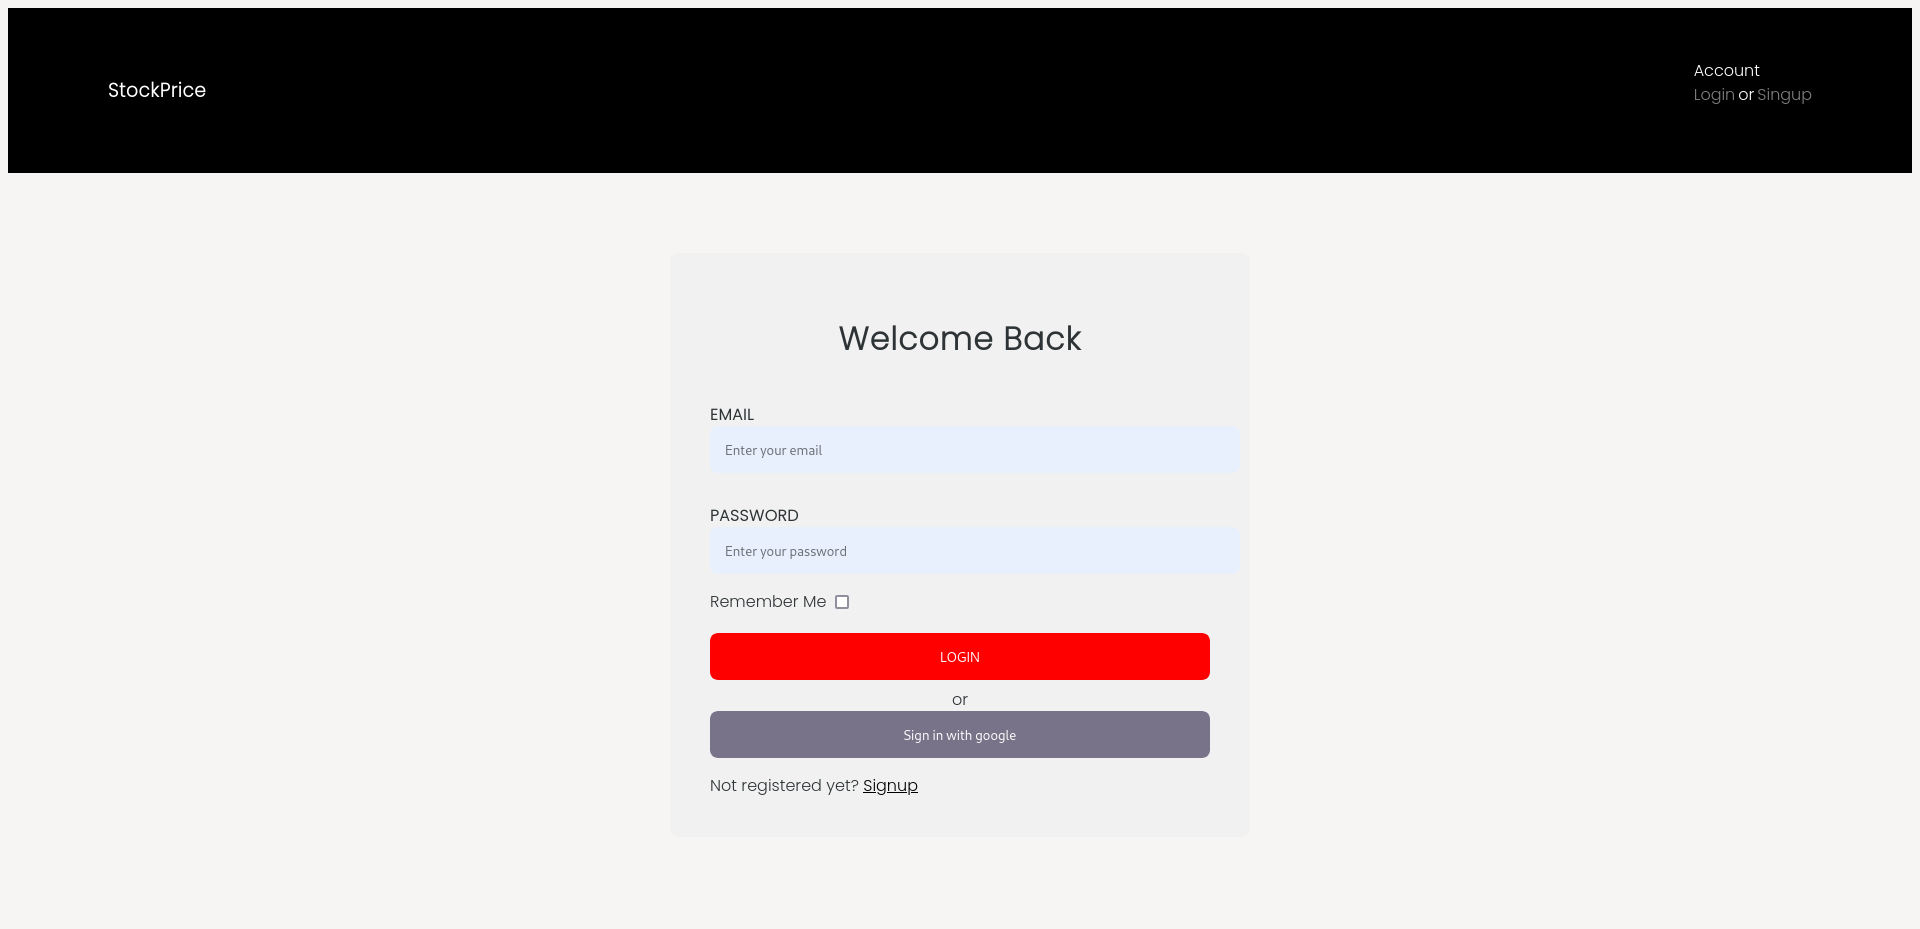
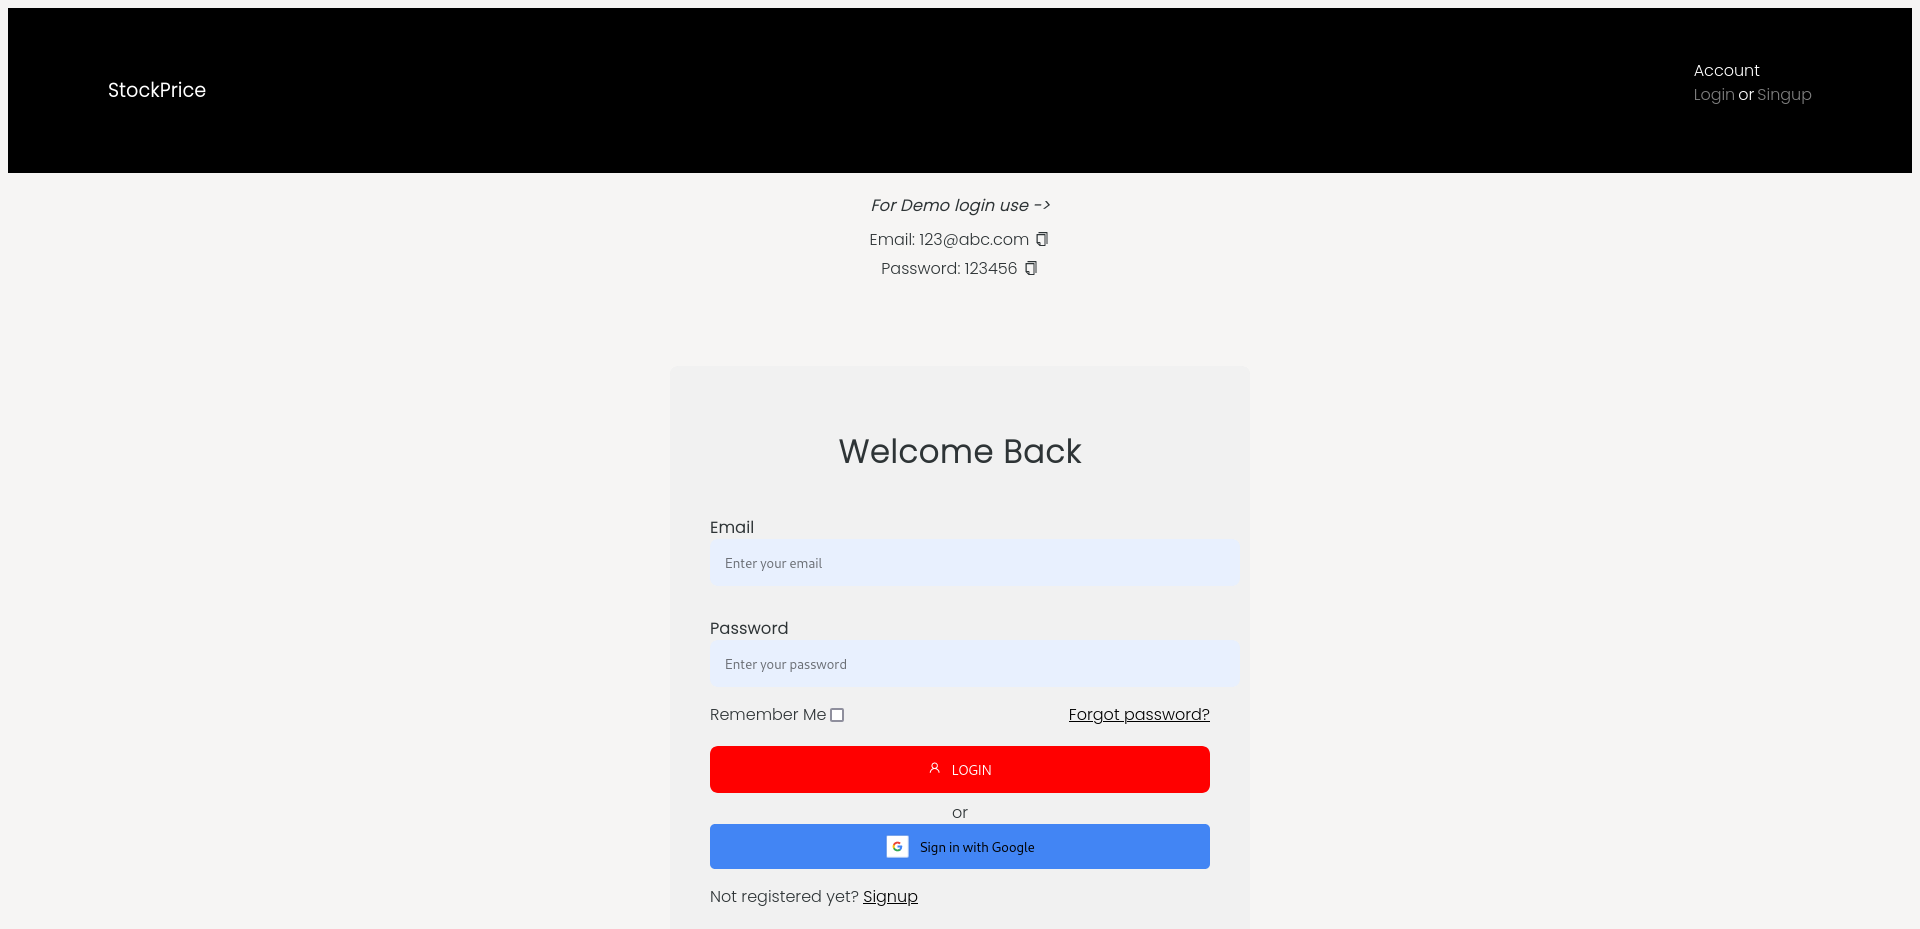
fixed some bugs

diff --git a/client/src/componets/login/index.jsx b/client/src/componets/login/index.jsx
@@ -4,6 +4,7 @@ import { useGoogleLogin } from '@react-oauth/google';
 import * as api from '../../api/index.js';
 import { useState } from 'react';
 import googleBtn from '../../assests/google_signin_buttons/web/vector/btn_google_light_normal_ios.svg';
+import { AiOutlineUser, AiOutlineCopy } from 'react-icons/ai';
 
 const Login = ({ setUser }) => {
 	const [email, setEmail] = useState('');
@@ -47,71 +48,100 @@ const Login = ({ setUser }) => {
 	}
 	const login = useGoogleLogin({ onSuccess: handleGoogleLoginSuccess });
 
+	function copyToClipboard(text) {
+		if (window.navigator && window.navigator.clipboard) {
+			window.navigator.clipboard
+				.writeText(text)
+				.then(() => {
+					console.log('Text copied to clipboard');
+				})
+				.catch((error) => {
+					console.error('Error copying text to clipboard:', error);
+				});
+		} else {
+			console.error('Clipboard API not supported');
+		}
+	}
+
 	return (
-		<div className={LoginStyles.loginContainer}>
-			<div className={LoginStyles.loginContainerv2}>
-				<h1>Welcome Back</h1>
-				<form onSubmit={handleSubmit}>
-					<div className={LoginStyles.inputContainer}>
-						<label htmlFor='email'>Email</label>
-						<input
-							id='email'
-							onChange={(e) => setEmail(e.target.value)}
-							placeholder='Enter your email'
-							type='email'
-							value={email}
-						/>
-					</div>
-
-					<div className={LoginStyles.inputContainer}>
-						<label htmlFor='password'>Password</label>
-						<input
-							id='password'
-							onChange={(e) => setPassword(e.target.value)}
-							placeholder='Enter your password'
-							type='password'
-							value={password}
-						/>
-					</div>
-
-					<div className={LoginStyles.forgetmeContainer}>
-						<div>
-							<label htmlFor='rememberMe'>Remember Me</label>
+		<div className={LoginStyles.login}>
+			<div className={LoginStyles.dummyLogin}>
+				<b>
+					<i>For Demo login use -&gt;</i>
+				</b>
+				<span onClick={() => copyToClipboard('123@abc.com')}>
+					Email: 123@abc.com <AiOutlineCopy />
+				</span>
+				<span onClick={() => copyToClipboard('123456')}>
+					Password: 123456 <AiOutlineCopy />
+				</span>
+			</div>
+			<div className={LoginStyles.loginContainer}>
+				<div className={LoginStyles.loginContainerv2}>
+					<h1>Welcome Back</h1>
+					<form onSubmit={handleSubmit}>
+						<div className={LoginStyles.inputContainer}>
+							<label htmlFor='email'>Email</label>
 							<input
-								id='rememberMe'
-								type='checkbox'
+								id='email'
+								onChange={(e) => setEmail(e.target.value)}
+								placeholder='Enter your email'
+								type='email'
+								value={email}
 							/>
 						</div>
-						<div>
-							<a href='/account/forgotpassword'>Forgot password?</a>
+
+						<div className={LoginStyles.inputContainer}>
+							<label htmlFor='password'>Password</label>
+							<input
+								id='password'
+								onChange={(e) => setPassword(e.target.value)}
+								placeholder='Enter your password'
+								type='password'
+								value={password}
+							/>
 						</div>
-					</div>
 
+						<div className={LoginStyles.forgetmeContainer}>
+							<div>
+								<label htmlFor='rememberMe'>Remember Me</label>
+								<input
+									id='rememberMe'
+									type='checkbox'
+								/>
+							</div>
+							<div>
+								<a href='/account/forgotpassword'>Forgot password?</a>
+							</div>
+						</div>
+
+						<button
+							type='submit'
+							className={LoginStyles.loginBTN}>
+							<AiOutlineUser />
+							LOGIN
+						</button>
+					</form>
+					<span className={LoginStyles.or}>or</span>
 					<button
-						type='submit'
-						className={LoginStyles.loginBTN}>
-						LOGIN
+						className={LoginStyles.googleBTN}
+						onClick={login}>
+						<img
+							src={googleBtn}
+							alt='Sign in with google'
+						/>
+						<span>Sign in with Google</span>
 					</button>
-				</form>
-				<span className={LoginStyles.or}>or</span>
-				<button
-					className={LoginStyles.googleBTN}
-					onClick={login}>
-					<img
-						src={googleBtn}
-						alt='Sign in with google'
-					/>
-					<span>Sign in with Google</span>
-				</button>
 
-				<span className={LoginStyles.notreg}>
-					Not registered yet?{' '}
-					<Link
-						className={LoginStyles.singupBTN}
-						to='/account/signup'>
-						Signup
-					</Link>
-				</span>
+					<span className={LoginStyles.notreg}>
+						Not registered yet?{' '}
+						<Link
+							className={LoginStyles.singupBTN}
+							to='/account/signup'>
+							Signup
+						</Link>
+					</span>
+				</div>
 			</div>
 		</div>
 	);

diff --git a/client/src/componets/login/Login.module.css b/client/src/componets/login/Login.module.css
@@ -32,6 +32,9 @@
 }
 
 .loginBTN {
+	display: flex;
+	justify-content: center;
+	gap: 10px;
 	border: none;
 	width: 100%;
 	padding: 15px;
@@ -113,4 +116,33 @@
 
 .forgetmeContainer a {
 	color: black;
+}
+
+.dummyLogin {
+	display: flex;
+	flex-direction: row;
+	align-items: center;
+	justify-content: center;
+	flex-direction: column;
+	margin-top: 20px;
+}
+
+.dummyLogin b {
+	font-weight: bold;
+	margin-bottom: 10px;
+}
+
+.dummyLogin span {
+	display: flex;
+	align-items: center;
+	cursor: pointer;
+	margin-bottom: 5px;
+}
+
+.dummyLogin span:hover {
+	text-decoration: underline;
+}
+
+.dummyLogin span svg {
+	margin-left: 5px;
 }

diff --git a/client/src/componets/nav/index.jsx b/client/src/componets/nav/index.jsx
@@ -1,6 +1,7 @@
 import NavStyles from './Nav.module.css';
 import { Link } from 'react-router-dom';
 import { useEffect, useState } from 'react';
+import { AiOutlineUser } from 'react-icons/ai';
 
 const Nav = ({ user, setUser }) => {
 	const [authenticated, setAuthenticated] = useState(false);
@@ -44,6 +45,7 @@ const Nav = ({ user, setUser }) => {
 						<div>
 							<span className='d-blcok'>Account</span>
 							<div className={NavStyles.container2}>
+								<AiOutlineUser />
 								<Link
 									className={`d-block ${NavStyles.linkBTN}`}
 									to='/account/login'>

diff --git a/client/src/componets/signup/index.jsx b/client/src/componets/signup/index.jsx
@@ -4,6 +4,7 @@ import { useGoogleLogin } from '@react-oauth/google';
 import * as api from '../../api/index.js';
 import { useState } from 'react';
 import googleBtn from '../../assests/google_signin_buttons/web/vector/btn_google_light_normal_ios.svg';
+import { AiOutlineUserAdd } from 'react-icons/ai';
 
 const InitState = {
 	firstName: '',
@@ -131,6 +132,7 @@ function Signup({ setUser }) {
 				<button
 					onClick={handleOnSubmit}
 					className={SignUp.loginBTN}>
+					<AiOutlineUserAdd />
 					REGISTER
 				</button>
 				<span className={SignUp.or}>or</span>

diff --git a/client/src/componets/signup/Signup.module.css b/client/src/componets/signup/Signup.module.css
@@ -35,6 +35,10 @@
 }
 
 .loginBTN {
+	display: flex;
+	justify-content: center;
+	align-items: center;
+	gap: 10px;
 	border: none;
 	width: 100%;
 	padding: 15px;

diff --git a/client/src/componets/nav/Nav.module.css b/client/src/componets/nav/Nav.module.css
@@ -18,6 +18,8 @@
 
 .container2 {
 	display: flex;
+	gap: 5px;
+	align-items: center;
 }
 .linkBTN {
 	color: rgba(255, 255, 255, 0.5);
